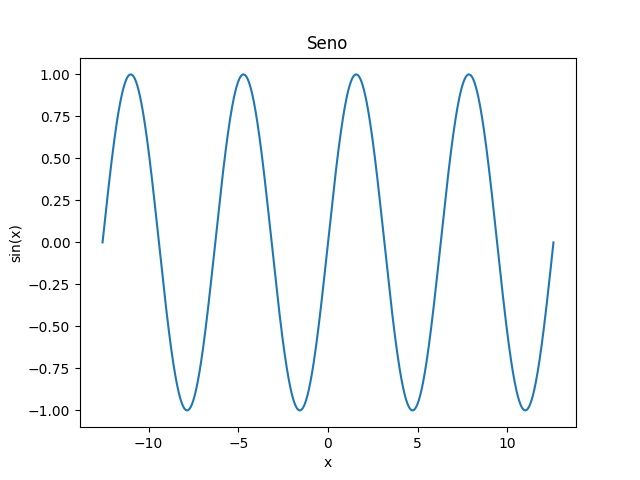
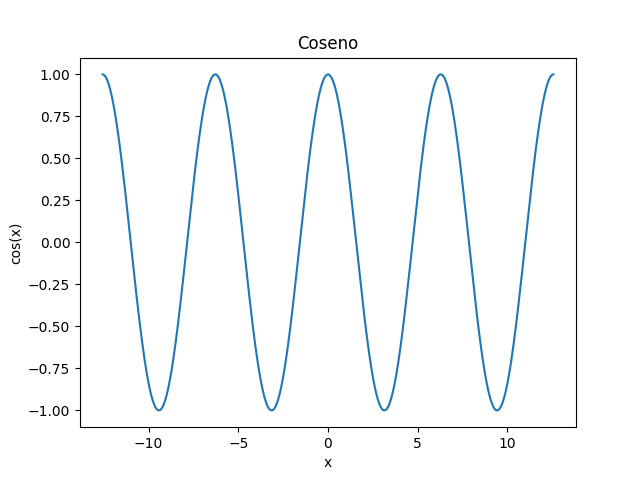
modifique codigo y guarde nueva grafica

diff --git a/Moreno.py b/Moreno.py
@@ -9,10 +9,10 @@ import matplotlib.pyplot as plt # this is the only line required to make plots w
 
 x=np.linspace(-np.pi*4, np.pi*4, 1000)
 
-plt.plot(x, np.sin(x))
+plt.plot(x, np.cos(x))
 plt.xlabel("x") 
-plt.ylabel("sin(x)") 
-plt.title("Seno") 
+plt.ylabel("cos(x)") 
+plt.title("Coseno") 
 
 
 plt.savefig("funcion.png") 
